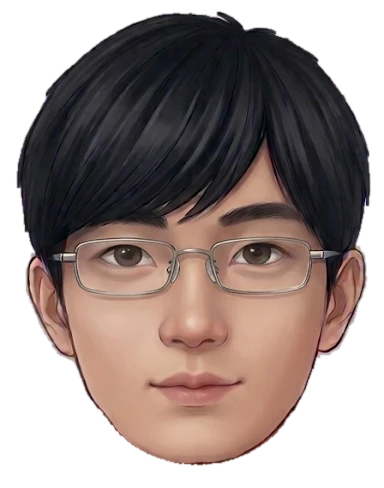
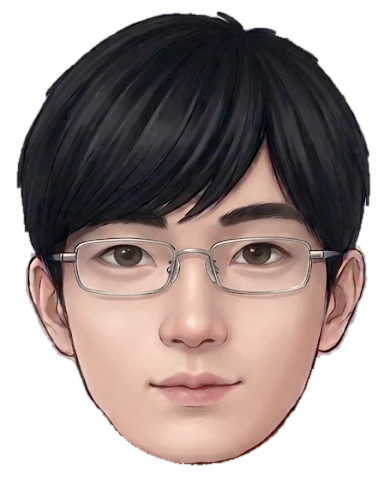
minor changes

Changed region(s): [[0.0625, 0.3074, 0.9688, 0.9529]]

diff --git a/index.html b/index.html
@@ -24,8 +24,8 @@
   <!-- the 3D avatar's parts download alongside the page -->
   <link rel="modulepreload" href="https://cdn.jsdelivr.net/npm/three@0.180.0/build/three.module.min.js">
   <link rel="modulepreload" href="https://cdn.jsdelivr.net/npm/three@0.180.0/build/three.core.min.js">
-  <link rel="preload" as="image" href="img/avatar-head.png">
-  <link rel="preload" as="image" href="img/avatar-neck.png">
+  <link rel="preload" as="image" href="img/avatar-head.png?v=2">
+  <link rel="preload" as="image" href="img/avatar-neck.png?v=2">
 </head>
 <body>
   <nav class="nav">
@@ -66,7 +66,7 @@
       </div>
       <div class="hero-avatar-wrap">
         <div class="hero-avatar" id="tuan-avatar">
-          <img src="img/avatar-still.png" alt="Portrait of Tuan Truong" width="240" height="240">
+          <img src="img/avatar-still.png?v=2" alt="Portrait of Tuan Truong" width="240" height="240">
         </div>
       </div>
       <script>
@@ -335,8 +335,8 @@
         return [(u - CX) * PX * s, -(v - CY) * PX * s, z * PX];
       };
 
-      const HEAD = { src: 'img/avatar-head.png', x0: 192, y0: 72, w: 384, h: 488 };
-      const NECK = { src: 'img/avatar-neck.png', x0: 288, y0: 432, w: 224, h: 240 };
+      const HEAD = { src: 'img/avatar-head.png?v=2', x0: 192, y0: 72, w: 384, h: 488 };
+      const NECK = { src: 'img/avatar-neck.png?v=2', x0: 288, y0: 432, w: 224, h: 240 };
       const TEE = { x0: 0, y0: 500, w: 768, h: 345 };
       // Crew neckline and shoulders of the tee, in portrait pixels.
       const NECKLINE = [[299, 551], [320, 571], [345, 587], [370, 596], [395, 599], [420, 595], [446, 583], [470, 566], [488, 548], [497, 533]];
